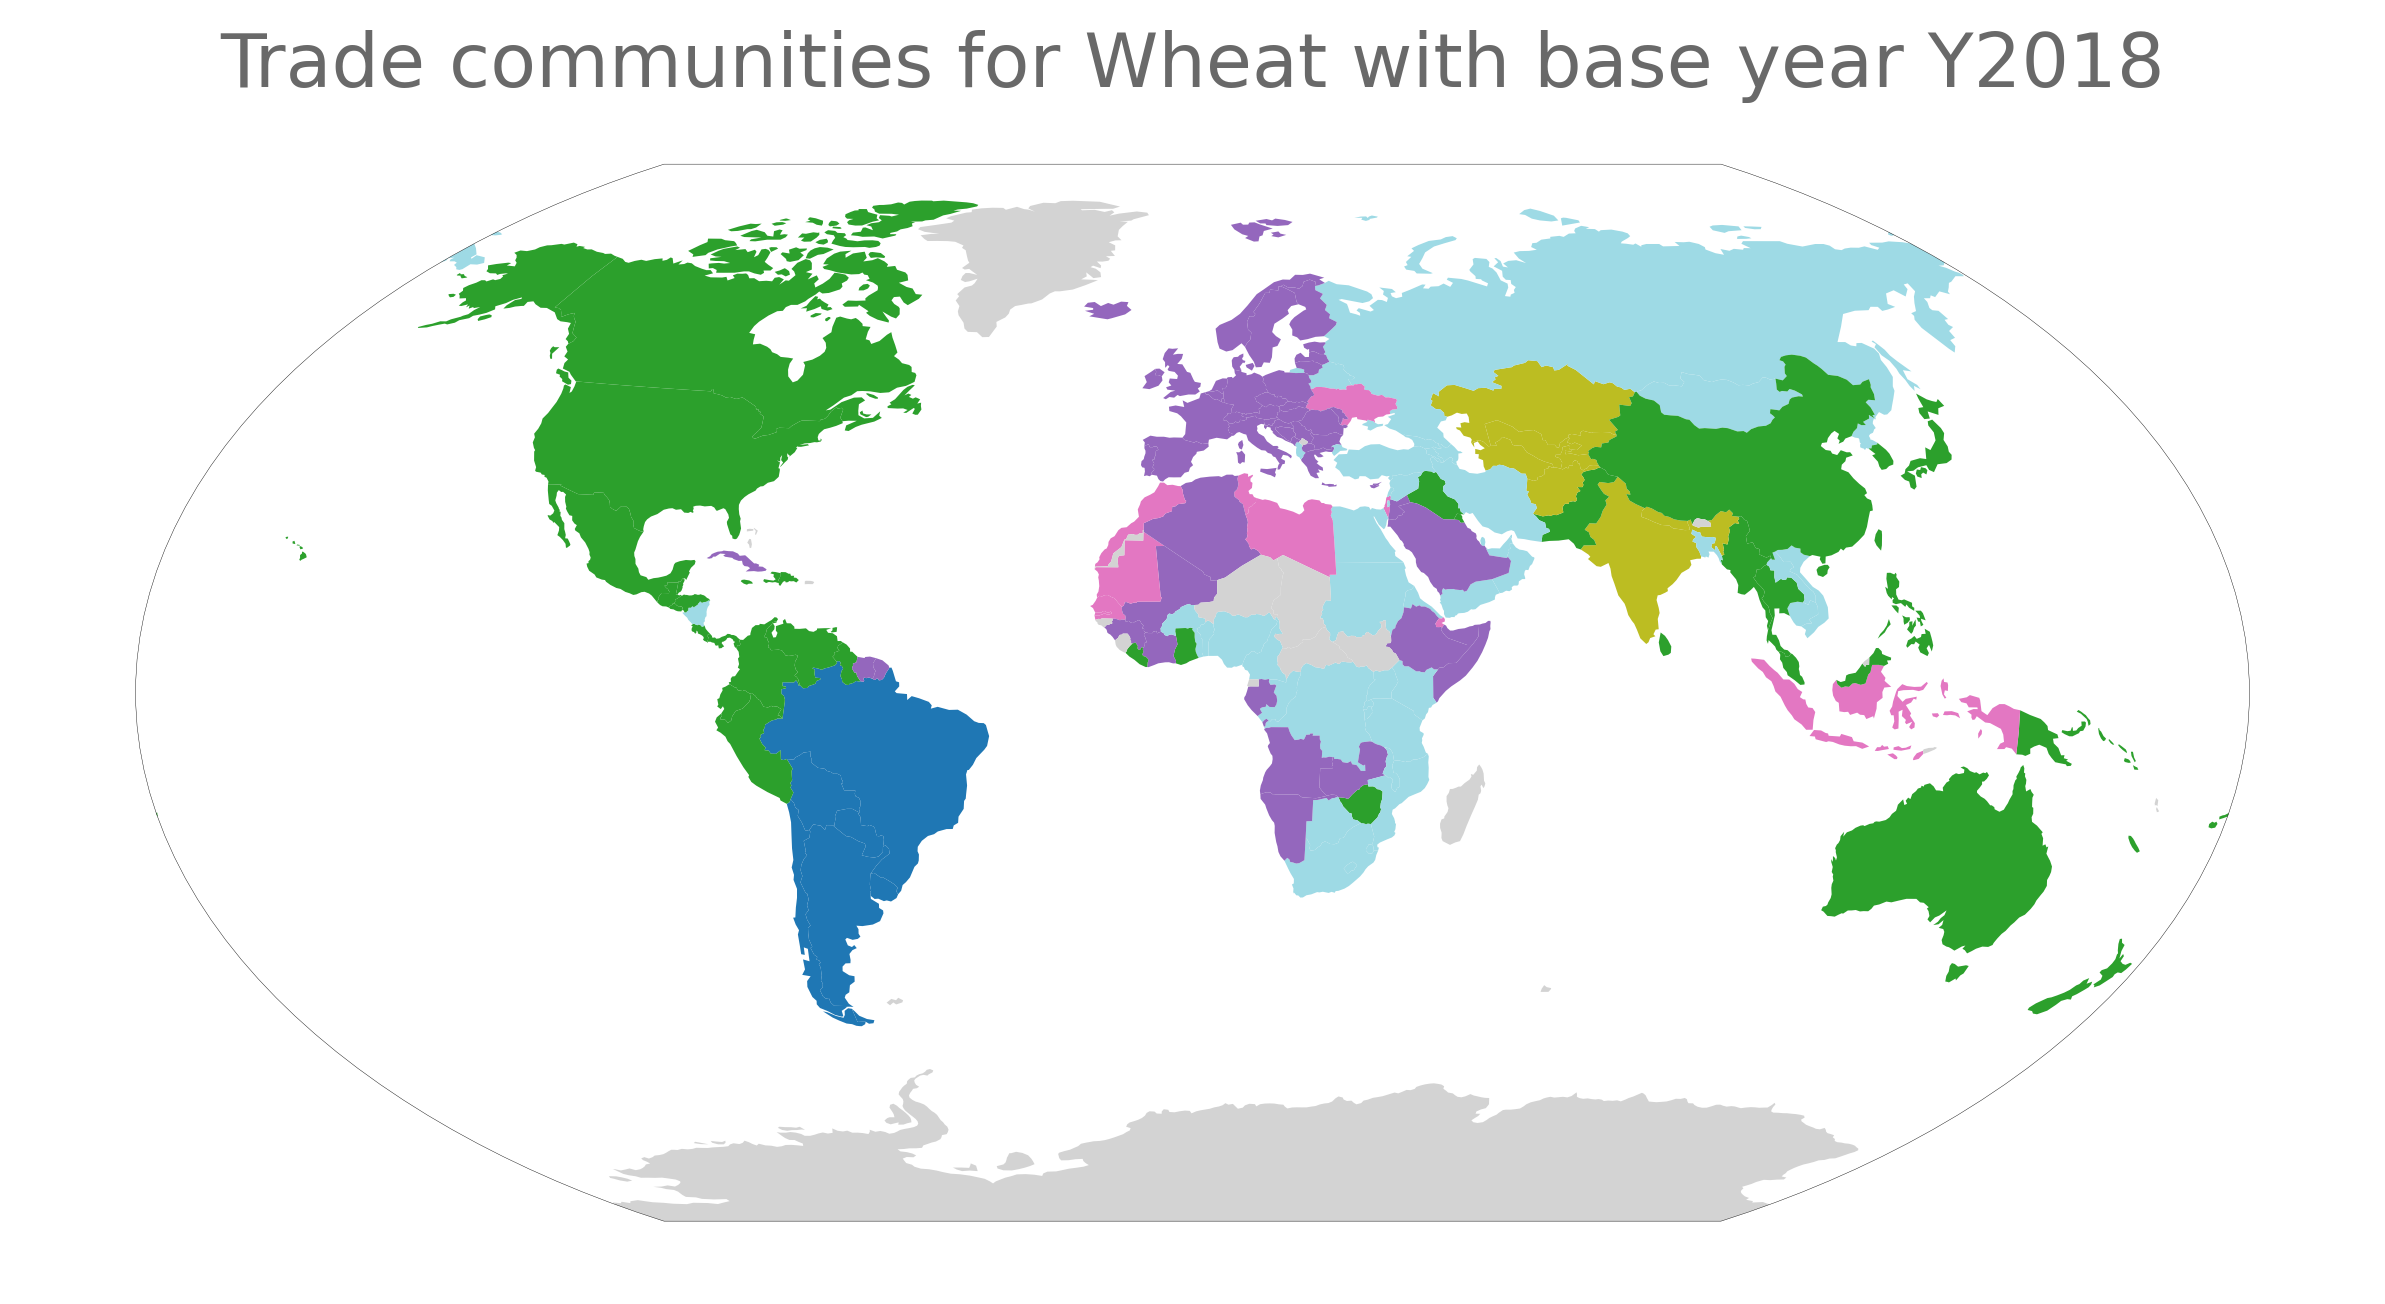
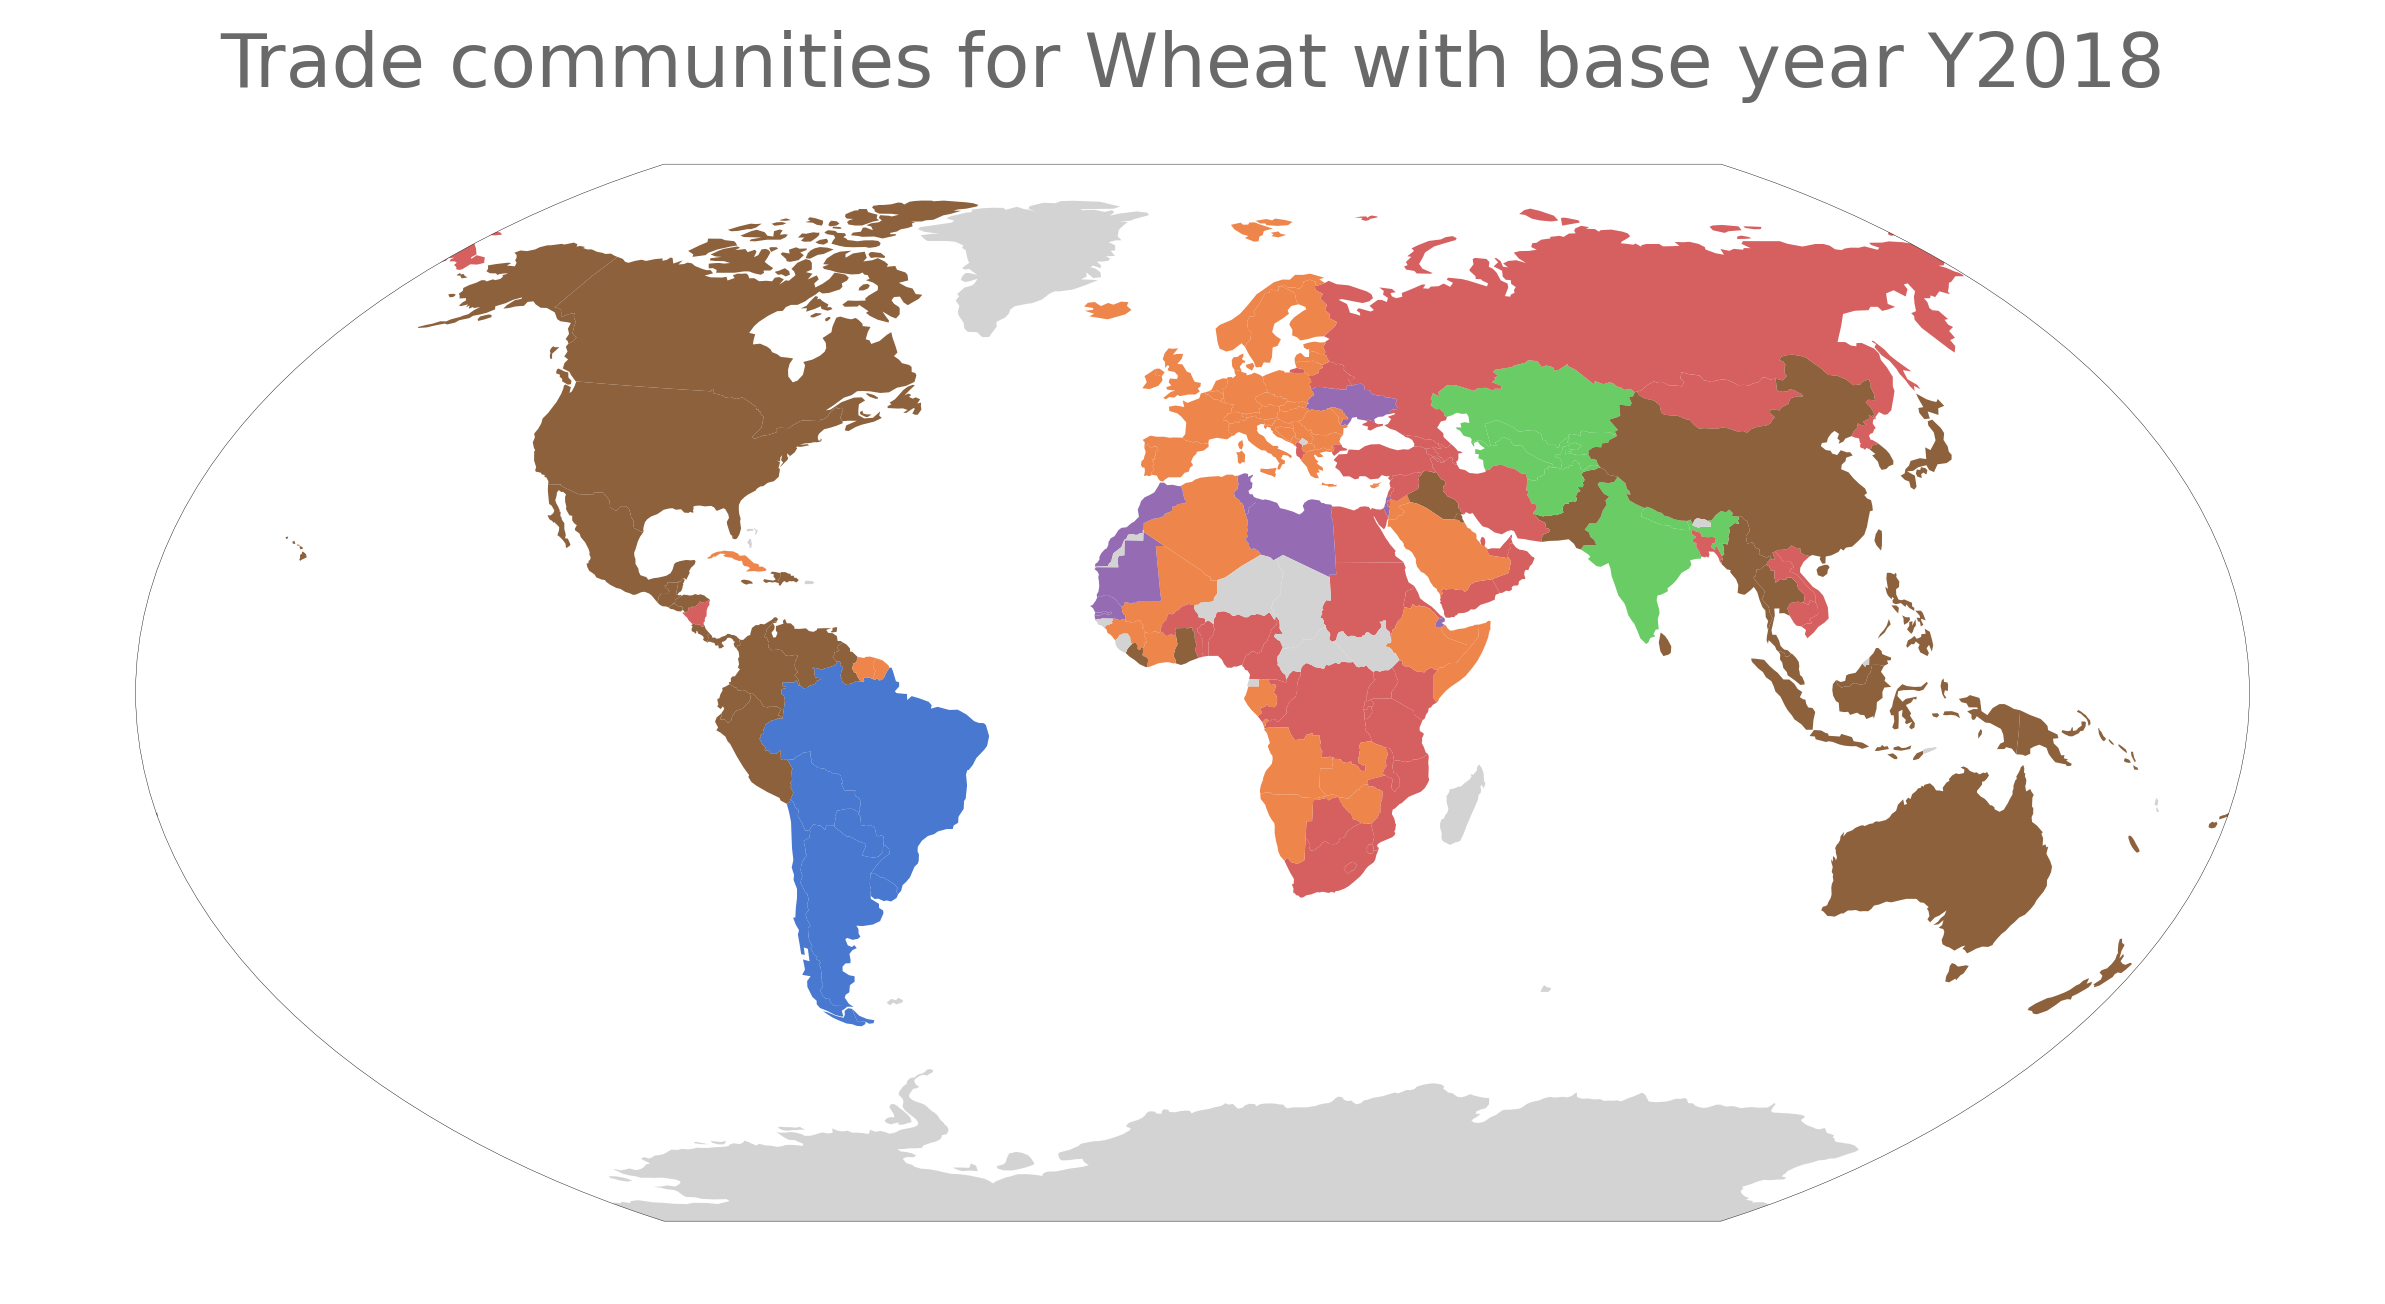
Settled on a nice color

diff --git a/src/model.py b/src/model.py
@@ -5,6 +5,8 @@ import matplotlib.pyplot as plt
 import os
 import geopandas as gpd
 import country_converter as coco
+from matplotlib.colors import ListedColormap
+import seaborn as sns
 
 plt.style.use(
     "https://raw.githubusercontent.com/allfed/ALLFED-matplotlib-style-sheet/main/ALLFED.mplstyle"
@@ -289,7 +291,7 @@ class PyTradeShifts:
 
         self.trade_graph = trade_graph
 
-    def find_trade_communities(self):
+    def find_trade_communities(self, keep_singletons=False):
         """
         Finds the trade communities in the trade graph using the Louvain algorithm.
 
@@ -302,9 +304,17 @@ class PyTradeShifts:
         assert self.trade_graph is not None
         assert self.trade_communities is None
         # Find the communities
-        trade_communities = nx.community.louvain_communities(self.trade_graph)
-        # Remove all the communities with only one country
-        trade_communities = [c for c in trade_communities if len(c) > 1]
+        trade_communities = nx.community.louvain_communities(self.trade_graph, seed=1)
+        # Remove all the communities with only one country and print the names of the
+        # communities that are removed
+        if keep_singletons:
+            print("Keeping communities with only one country.")
+        else:
+            for community in list(trade_communities):
+                if len(community) == 1:
+                    trade_communities.remove(community)
+                    print(f"Removed community {community} with only one country.")
+
         self.trade_communities = trade_communities
 
     def plot_trade_communities(self):
@@ -348,11 +358,12 @@ class PyTradeShifts:
         world["community"] = world["names_short"].map(country_community)
 
         # Plot the world map and color the countries according to their community
+        cmap = ListedColormap(sns.color_palette("deep", len(self.trade_communities)).as_hex())
         fig, ax = plt.subplots(figsize=(10, 6))
         world.plot(
             ax=ax,
             column="community",
-            cmap="tab20",
+            cmap=cmap,
             missing_kwds={"color": "lightgrey"},
             legend=False,
         )
@@ -388,5 +399,3 @@ def plot_winkel_tripel_map(ax):
     ax.grid(False)
     ax.set_xticks([])
     ax.set_yticks([])
-
-
